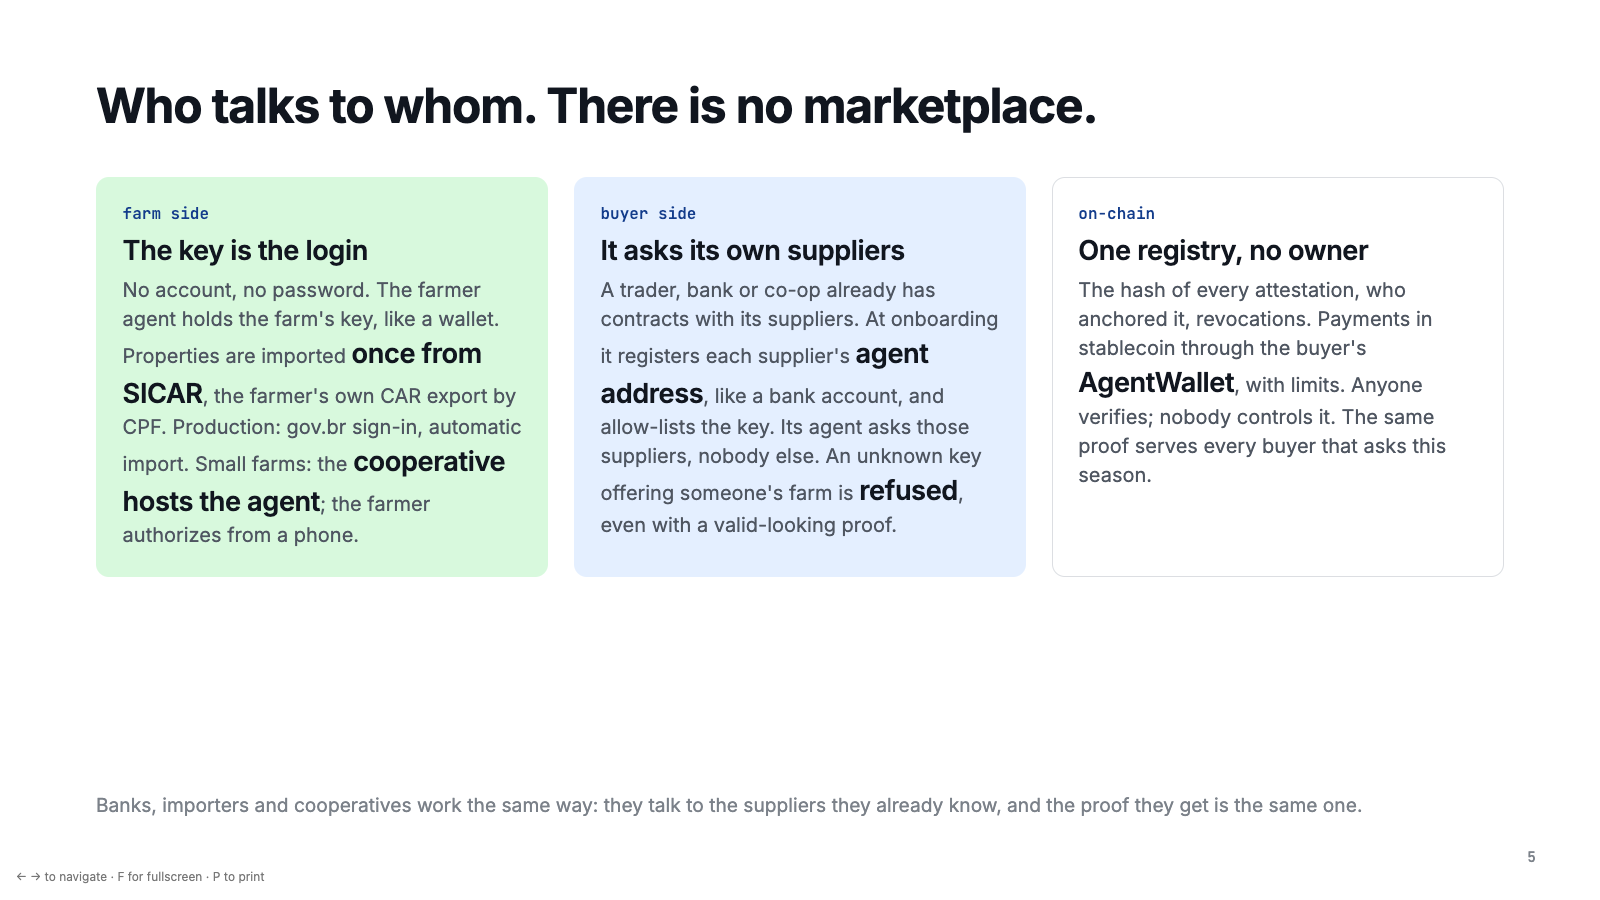
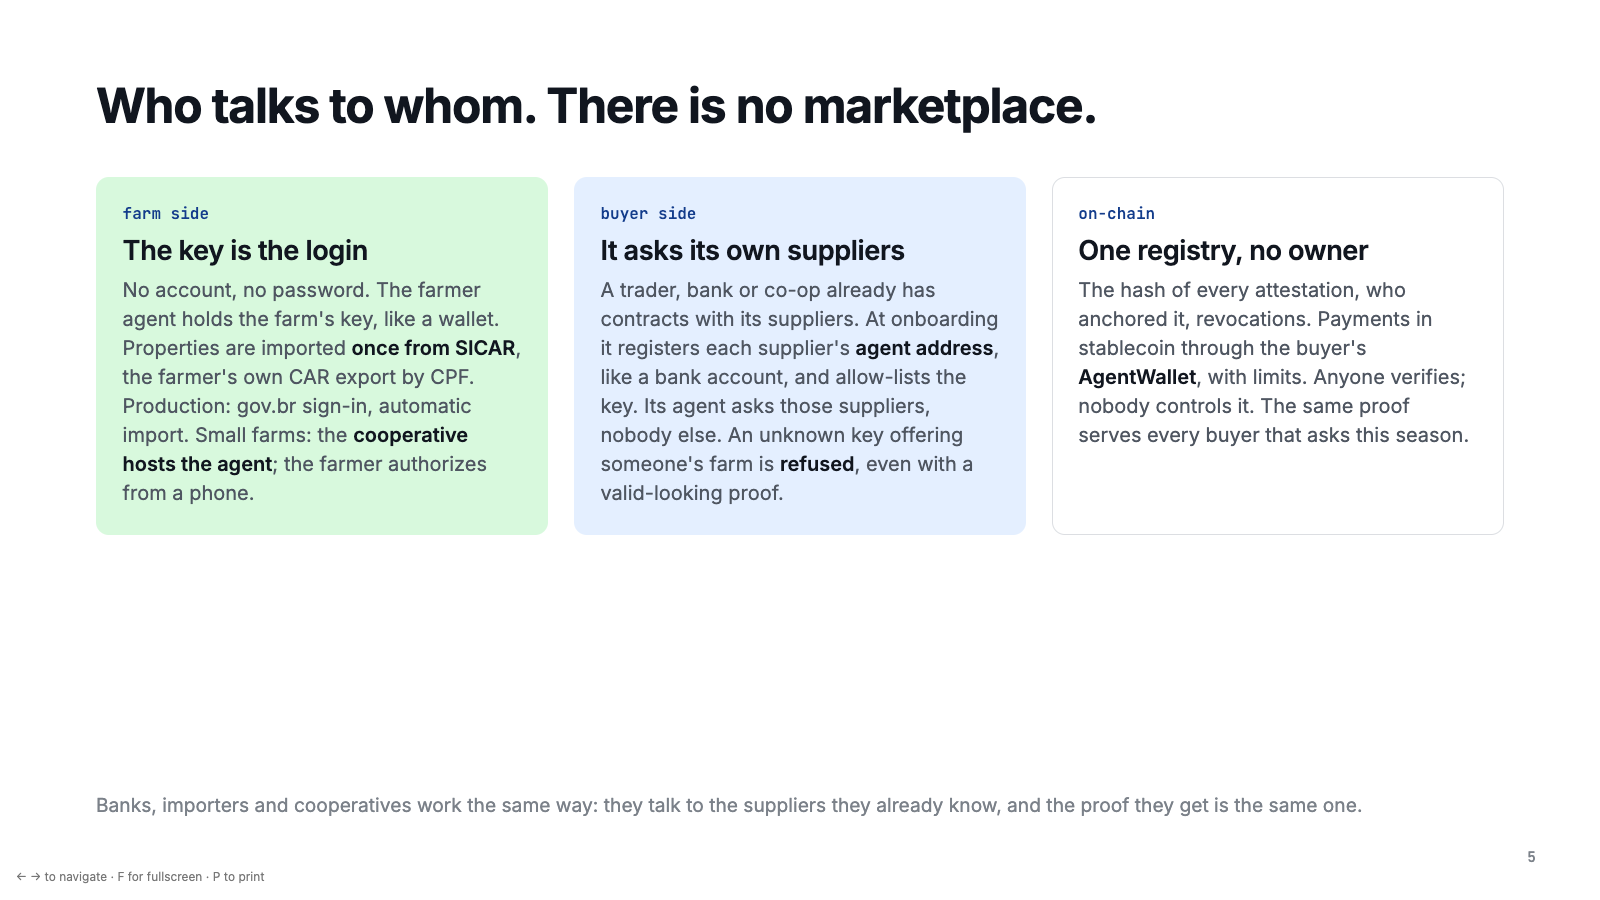
Slide 5 inline bold sizing

Changed region(s): [[0.0625, 0.3733, 0.6562, 0.6533], [0.6562, 0.4044, 0.9062, 0.56]]

diff --git a/docs/slides/index.html b/docs/slides/index.html
@@ -35,7 +35,8 @@
   .markets { display: grid; grid-template-columns: repeat(3, 1fr); gap: 1.6vw; margin-top: 1vw; }
   .mkt { border: 1px solid var(--line); border-radius: 0.8vw; padding: 1.6vw 1.6vw; display: flex; flex-direction: column; gap: 0.6vw; min-height: 15vw; }
   .mkt i { font: 500 1vw 'JetBrains Mono', monospace; color: var(--primary); font-style: normal; }
-  .mkt b { font-size: 1.7vw; letter-spacing: -0.015em; }
+  .mkt > b { font-size: 1.7vw; letter-spacing: -0.015em; }
+  .mkt p b { font-size: inherit; color: var(--ink); }
   .mkt p { font-size: 1.25vw; }
   /* timeline */
   .tl { display: grid; grid-template-columns: 9vw 1fr; gap: 1.2vw 2vw; align-items: start; }
